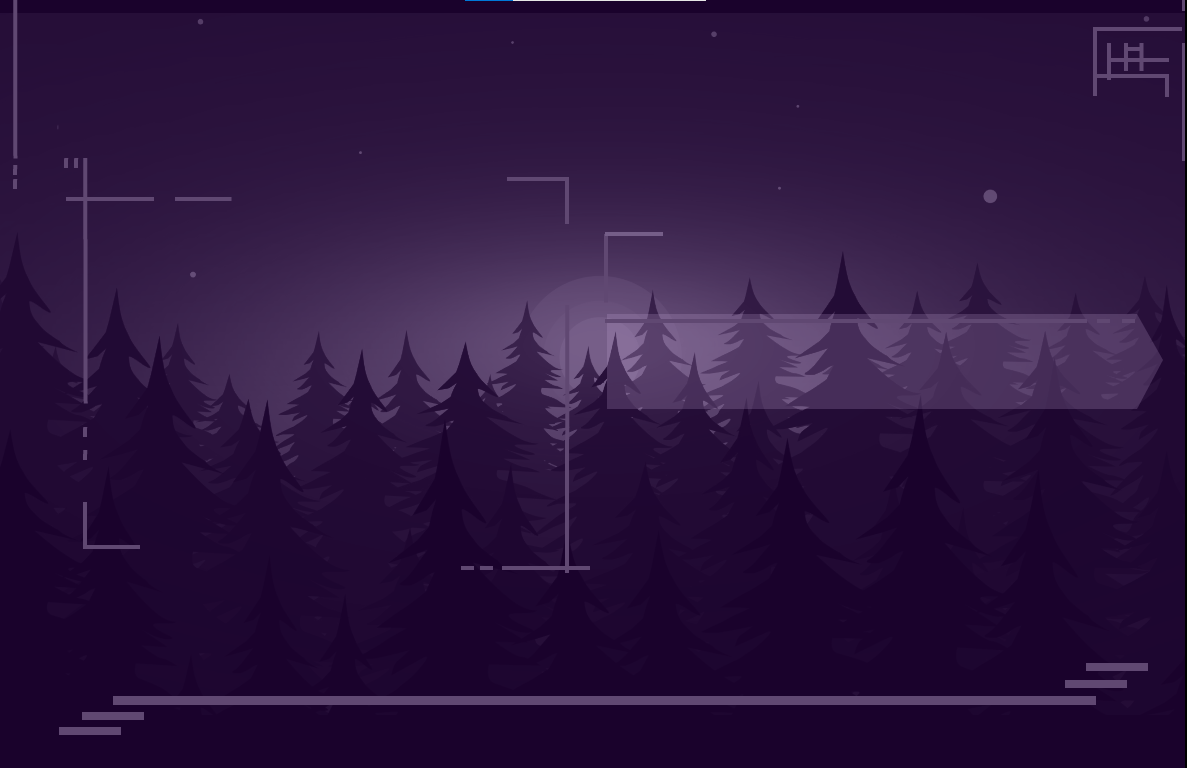
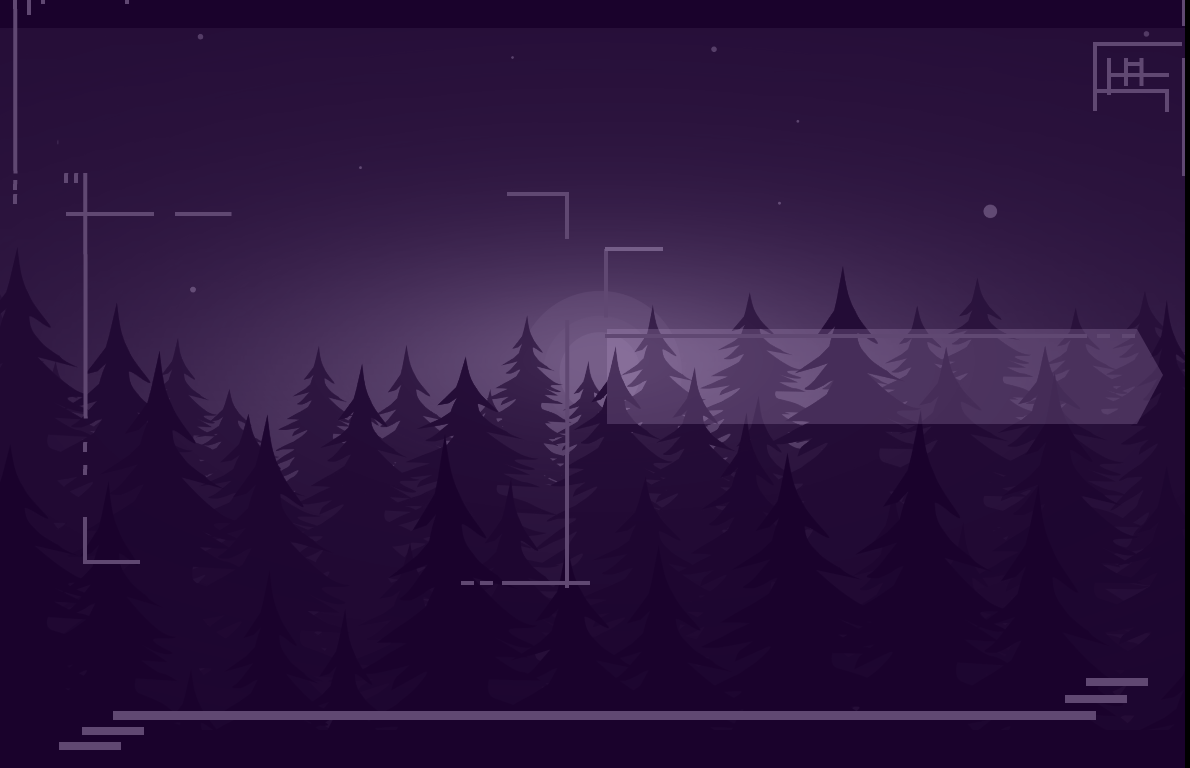
Letras y estilo en portada listo

diff --git a/css/styles.css b/css/styles.css
@@ -1,3 +1,10 @@
+body{
+    background-color: black;
+}
+
+/*--------------------------------------------------------------------------------------- */
+/*BARRA DE NAVEGACIÓN - HEADER */
+
 .header-menu {
     background-color: #2A1630;
     color: white;
@@ -34,9 +41,9 @@
     padding: 0;
     display: flex;
     margin: 0;
-    justify-content: flex-start; /* Para que los items no se desborden */
-    flex-wrap: wrap; /* Para que los items se ajusten si el espacio es pequeño */
-    width: auto; /* Asegura que no ocupen más de lo necesario */
+    justify-content: flex-start;
+    flex-wrap: wrap; 
+    width: auto;
     
 }
 
@@ -52,26 +59,23 @@
     margin-right: 32px;
 }
 
-/* Responsive para dispositivos móviles */
 @media (max-width: 768px) {
     .menu-desplazamiento {
         display: block;
         
     }
 
-    /* Menu items ocultos inicialmente */
     .menu-items {
         display: none;
         flex-direction: column;
         background-color: #2A1630;
         position: absolute;
         top: 60px;
-        right: 0; /* Ajustado para que el menú aparezca a la derecha */
-        width: 250px; /* Ajuste el ancho del menú */
+        right: 0;
+        width: 250px;
         box-shadow: -2px 4px 6px rgba(0, 0, 0, 0.1);
     }
 
-    /* Mostrar los items cuando el menú se activa */
     .menu-items.show {
         display: flex;
     }
@@ -84,4 +88,43 @@
     .header-letras {
         font-size: clamp(12px, 3vw, 16px);
     }
+}
+
+/*--------------------------------------------------------------------------------------- */
+/*PORTADA - BODY */
+
+.portada {
+    width: 100%;
+    height: 100vh;
+    display: flex;
+    justify-content: center;
+    align-items: center;
+    background-image: url('../assets/portada_imagen.png');
+    background-size: cover;
+    background-position: center 30%;
+    background-repeat: no-repeat;
+}
+
+.portada-nombre {
+    color: white;
+    font-size: 7rem; 
+    font-family: 'Inter', sans-serif;
+    font-weight: 400; 
+    text-transform: uppercase;
+    position: relative;
+    top: -80px;
+    left: 340px;
+    text-shadow: 
+        4px 4px 0 rgba(0, 0, 0, 0.5),  
+        -12px 6px 0 rgba(117, 94, 136, 1);
+}
+
+.portada-descripcion {
+    color: white;
+    font-size: 2.5rem;
+    font-family: 'Lobster Two', cursive; 
+    font-weight: 400;
+    position: relative;
+    top: -115px; 
+    left: 340px; 
 }

diff --git a/index.html b/index.html
@@ -5,6 +5,9 @@
     <meta name="viewport" content="width=device-width, initial-scale=1.0">
     <title>Portafolio</title>
     <link rel="stylesheet" href="css/styles.css">
+    <link href="https://fonts.googleapis.com/css2?family=Inter:wght@400;600&display=swap" rel="stylesheet">
+    <link href="https://fonts.googleapis.com/css2?family=Lobster+Two:wght@400&display=swap" rel="stylesheet">
+
 </head>
 <body>
     <header class="header-menu">
@@ -21,7 +24,13 @@
             </ul>
         </nav>
     </header>
-    <section>hola</section>
+    <section class="portada">
+        <div>
+            <h1 class="portada-nombre">LUIS ABEL</h1>
+            <h1 class="portada-descripcion">Ingeniero en Desarrollo de Software</h1>
+        </div>
+    </section>
+    
 
     <script src="js/script.js"></script>
 </body>
